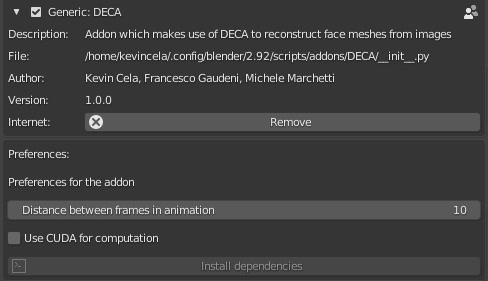
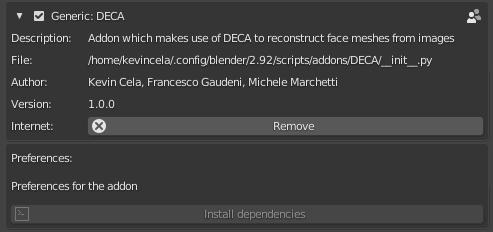
update readme

diff --git a/DECA/DECAPluginPanel.py b/DECA/DECAPluginPanel.py
@@ -18,7 +18,7 @@ class DecaPluginPanel(PluginPanel, bpy.types.Panel):
         row = box.row()
         row.operator("mesh.add_anim_deca")
         box_pref = layout.box()
-        box_pref.label(text="Preferences plugin")
+        box_pref.label(text="Plugin preferences")
         box_pref.prop(addon_prefs, "frame_distance")
         box_pref.prop(addon_prefs, "use_cuda")
         

diff --git a/README.md b/README.md
@@ -1,16 +1,16 @@
 # Blender DECA plugin
 
-Addon di Blender che consente di utilizzare la rete DECA per importare, a partire da un'immagine o da una serie di immagini, una mesh o animazione relativa alla faccia raffigurata. In particolare scegliendo una particolare immagine la rete verrà utilizzata per creare una singola mesh che contiene i dettagli e l'espressione relativa al volto raffigurato, mentre dall'altro lato è possibile scegliere una cartella, contenente diversi frame relativi allo stesso volto, per realizzare un'animazione che vada ad interpolare tra le mesh realizzate a partire dai vari frame presi in considerazione.
+Addon di Blender che consente di utilizzare la rete DECA per importare, a partire da un'immagine o da una serie di immagini, una mesh o animazione relativa alla faccia raffigurata. In particolare scegliendo una particolare immagine la rete verrà utilizzata per creare una singola mesh che contiene i dettagli e l'espressione relative al volto raffigurato, mentre dall'altro lato è possibile scegliere una cartella, contenente diversi frame relativi allo stesso volto, per realizzare un'animazione che vada ad interpolare tra le mesh realizzate a partire dai vari frame presi in considerazione.
 
 ## Setup
 
-L'addon, che dovrà essere zippato e installato su Blender, è situato nella cartella `DECA`.
+L'addon, che dovrà essere compresso in formato `.zip` e installato su Blender, è situato nella cartella `DECA`.
 
 ### Download modelli
 
-I modelli per l'utilizzo della rete DECA devono essere situati nella cartella `data`, all'interno dell'addon. Per il corretto utilizzo della rete sono necessari, rispettivamente:
+I modelli preallenati per l'utilizzo della rete DECA devono essere situati nella cartella `data`, all'interno della cartella dell'addon. Per il corretto utilizzo della rete sono necessari, rispettivamente:
 
-- Il modello della rete DECA, disponibile [nel seguente link](https://drive.google.com/file/d/1rp8kdyLPvErw2dTmqtjISRVvQLj6Yzje/view?usp=sharing). Il file così scaricato dovrà essere posizionata nella cartella `data` dell'addon.
+- Il modello della rete DECA, disponibile [nel seguente link](https://drive.google.com/file/d/1rp8kdyLPvErw2dTmqtjISRVvQLj6Yzje/view?usp=sharing). Il file così scaricato dovrà essere posizionato nella cartella `data` dell'addon.
 - Il modello della rete [FLAME](https://flame.is.tue.mpg.de/downloads). Dello zip in particolare è necessario il file `generic_model.pkl`, che dovrà essere posizionato nella cartella `data` dell'addon.
 
 Dopo aver scaricato i modelli, è possibile creare un zip dell'addon per il suo successivo caricamento in Blender.
@@ -19,13 +19,13 @@ Dopo aver scaricato i modelli, è possibile creare un zip dell'addon per il suo 
 
 Per funzionare correttamente, l'addon necessita di diverse dipendenze relative a python, non presenti di default nella distribuzione contenuta all'interno di Blender. Nel caso di Linux (e Mac?), l'addon offre l'opzione di installare in maniera semiautomatica tali dipendenze, mentre nel caso di Windows sarà necessaria un'installazione di natura manuale di tali dipendenze.
 
-#### Linux (e mac?)
+#### Linux e Mac
 
-Se si utilizza come sistema operativo Linux, l'addon contiene, tra le preferenze, un opzione che consente l'installazione di tutte le dipendenze necessarie per il corretto funzionamento, come è possibile vedere nella seguente immagine. Tale opzione è attiva solo nel caso in cui la distribuzione python non contiene le librerie richieste.
+Se si utilizza come sistema operativo Linux o Mac l'addon contiene, tra le preferenze, un opzione che consente l'installazione di tutte le dipendenze necessarie per il corretto funzionamento, come è possibile vedere nella seguente immagine. Tale opzione è attiva solo nel caso in cui la distribuzione python non contiene le librerie richieste.
 
 ![](images/preferences.png)
 
-All'aggiunta dell'addon in Blender, infatti, verranno importate le librerie necessarie. Nel caso in cui l'import avviene con successo le funzionalità dell'addon possono essere utilizzate, mentre al contrario se non sono presenti delle dipendenze l'addon non sarà utilizzabile e comparirà, tra le preferenze del plugin, l'opzione per installare tutte le dipendenze necessarie, quali:
+All'aggiunta in Blender l'addon tenta di importare le librerie necessarie. Nel caso in cui l'import avviene con successo le funzionalità dell'addon possono essere utilizzate, mentre in caso contrario l'addon non sarà utilizzabile e comparirà, tra le preferenze del plugin, l'opzione per installare tutte le dipendenze necessarie, che sono le seguenti:
 
 - pip, setuptools
 - pytorch (versione 1.7.1, CUDA 10.2)
@@ -40,25 +40,26 @@ All'aggiunta dell'addon in Blender, infatti, verranno importate le librerie nece
 
 Utilizzando questo operatore, tutte le dipendenze saranno installate e il plugin potrà essere utilizzato.
 
-**N.B.:** Per il corretto funzionamento di questa funzionalità è necessario avere una quantità sufficientemente alta di RAM disponibile, o in caso contrario il task verrà sospeso da Linux. Si noti, inoltre, che è necessario riavviare Blender dopo l'installazione delle dipendenze per un corretto funzionamento dell'addon.
+**N.B.:** Per il corretto funzionamento di questa funzionalità è necessario avere una quantità sufficientemente alta di RAM disponibile, o in caso contrario il task verrà sospeso dal sistema operativo. Si noti, inoltre, che potrebbe essere necessario riavviare Blender dopo l'installazione delle dipendenze per un corretto funzionamento dell'addon.
 
 #### Windows
 
-Sfortunatamente, a causa dell'assenza delle versioni precompilate di pytorch3d per Windows e a causa della difficoltà nella compilazione nell'ambiente python di Blender, non contenente gli header e le librerie necessarie, l'operatore sopra descritto non può essere applicato su tale sistema operativo. Si suggerisce, nel caso dell'utilizzo di Windows, l'utilizzo di Anaconda per creare un environment di Python che verrà in seguito collegato alla distribuzione Python di blender. La procedura può essere riassunta nei seguenti step:
+Sfortunatamente, a causa dell'assenza delle versioni precompilate di pytorch3d per Windows e a causa della difficoltà nella compilazione nell'ambiente python di Blender, non contenente gli header e le librerie necessarie, l'operatore sopra descritto non può essere applicato su tale sistema operativo. Si suggerisce in questo caso l'utilizzo di [Anaconda](https://www.anaconda.com/products/individual) per creare un environment di Python che verrà in seguito collegato alla distribuzione Python di blender. La procedura può essere riassunta nei seguenti step:
 
-- Installazione di Anaconda su Windows per la gestione dell'environment: https://anaconda.org/
+- Installazione di Anaconda su Windows per la creazione e gestione dell'environment: https://anaconda.org/
 - Creazione di un nuovo ambiente su cui verranno installate le dipendenze: 
     ```conda create --name blender python=3.7.7```
     In questo caso il nome dell'environment creato sarà blender, ma tale nome può essere scelto liberamente. Per il corretto funzionamento dell'environment, la versione di python usata deve coincidere con quella usata da Blender (in questo caso Python 3.7.7)
-- Attivazione dell'enviroment che sarà utilizzato:
+- Attivazione dell'environment che sarà utilizzato:
     ```conda activate blender```
 - Installazione delle dipendenze necessarie per la compilazione di pytorch3d:
-    ```conda install -c pytorch pytorch=1.7.1 torchvision cudatoolkit=10.2```
-    ```conda install -c fvcore -c iopath -c conda-forge fvcore iopath```
+    ```conda install -c pytorch pytorch=1.7.1 torchvision cudatoolkit=10.2```,
+    ```conda install -c fvcore -c iopath -c conda-forge fvcore iopath```.
 - Compilazione ed installazione di pytorch3d:
     ```pip install "git+https://github.com/facebookresearch/pytorch3d.git"```
 - Creazione di un link tra la versione di python inclusa di Blender e quella dell'environment creato:
-    ```mklink /j python C:\Anaconda3\envs\blender```
+    ```cd <blender_python_path>```, 
+    ```mklink /j python C:\Anaconda3\envs\blender```.
     (il path dell'environment potrebbe cambiare rispetto a quella qui presente). 
     Si consiglia di rinominare la cartella python precedentemente presente in blender, per avere la possibilità di ripristinare la distribuzione di python usata.
 - Avvio di Blender da command line, che deve essere fatta all'interno dell'environment Anaconda (usare ```conda activate blender``` prima di avviare ```blender.exe```).
@@ -67,12 +68,14 @@ Sfortunatamente, a causa dell'assenza delle versioni precompilate di pytorch3d p
 
 ## Uso del plugin
 
-Una volta installato l'addon e le dipendenze, è possibile procedere con il suo utilizzo. 
-
-L'addon in sè presenta inanzitutto due impostazioni principali, oltre all'operatore per installare le dipendenze: la prima consente di definire i frame di distanza tra una mesh e la successiva durante la generazione dell'animazione, mentre la seconda consente di scegliere tra l'utilizzo di CUDA e della CPU (a seconda dell'opzione scelta, il device usato nella rete corrisponderà a `"cuda"` oppure a `"cpu"`).
-
-Definite le preferenze, il plugin è situato come tab all'interno della sidebar di blender (che può essere attivata tramite l'uso del tasto `N`). Da qui sono presenti i due operatori che consentono, rispettivamente, di creare una mesh a partire da un'immagine e un'animazione a partire da una cartella di immagini. Entrambi gli operatori apriranno una finestra da cui si ha la possibilità di scegliere il file o la cartella contenente le immagini (che dovranno essere in formato `.jpg, .png, .bmp`). Dopo aver eseguito la scelta verrà invocata la rete, che genererà le mesh e produrrà l'output all'interno di Blender.
+Una volta installato l'addon con le relative dipendenze, è possibile procedere con il suo utilizzo. Il plugin è situato come tab all'interno della sidebar di blender (che può essere attivata tramite l'uso del tasto `N`), come visibile nella seguente figura:
 
 ![](images/panel.png)
 
-TODO: inserire immagini
+L'addon in sè presenta due impostazioni principali: la prima consente di definire i frame di distanza tra una mesh e la successiva durante la generazione dell'animazione, mentre la seconda consente di scegliere tra l'utilizzo della GPU (tramite CUDA) e della CPU (a seconda dell'opzione scelta, il device usato nella rete corrisponderà a `"cuda"` oppure a `"cpu"`).
+
+Oltre alle preferenze, nel pannello sono presenti i due operatori che consentono, rispettivamente, di creare una mesh a partire da un'immagine e un'animazione a partire da una cartella di immagini. Entrambi gli operatori apriranno una finestra da cui si ha la possibilità di scegliere il file o la cartella contenente le immagini (che dovranno essere in formato `.jpg, .png, .bmp`). Dopo aver eseguito la scelta verrà invocata la rete, che genererà le mesh e produrrà l'output all'interno di Blender.
+
+## Risultato animazione
+
+![](images/animation.gif)
